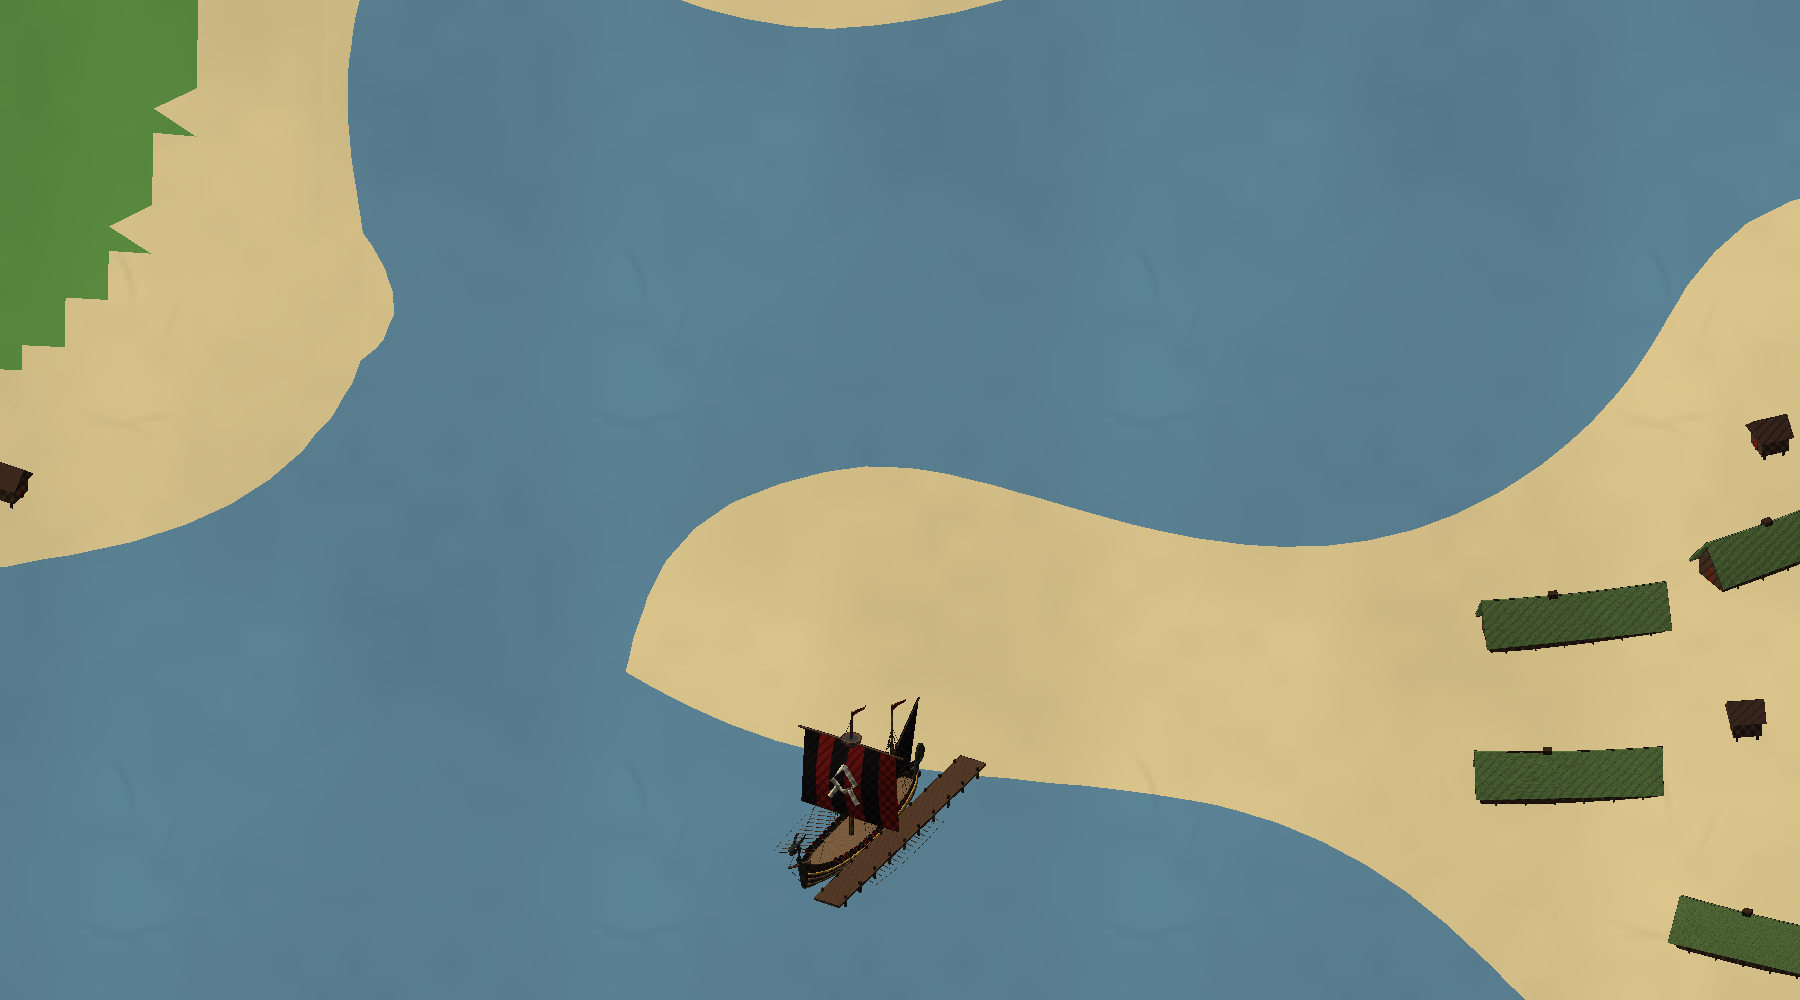
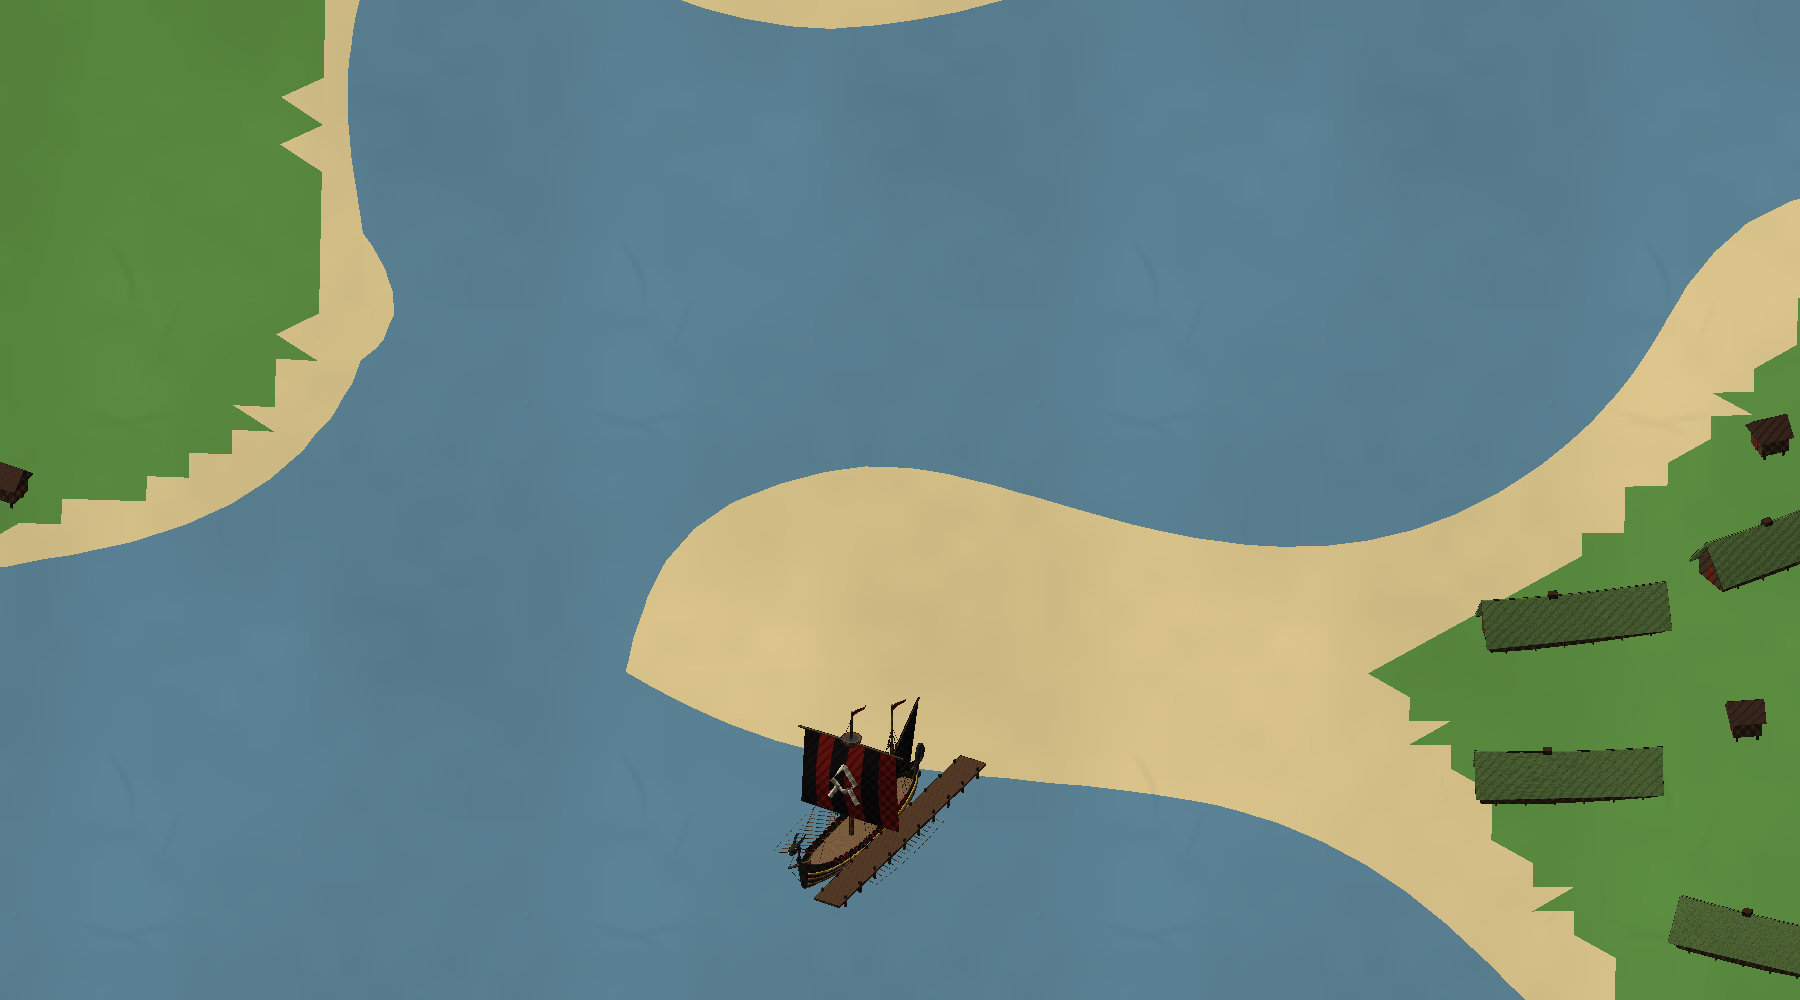
World at eye level: first-person harbour view, near-plane clipping, green lowland
- Preview: the Kaupang scene also rendered from the jetty at eye height
  (docs/scene-kaupang-fp.png); triangles crossing the near plane are clipped
  rather than dropped, so the ground and sea close to you are drawn.
- Terrain: sand only right at the waterline; low farmland is grass.

Claude-Session: https://claude.ai/code/session_01SCdejJ1UF8RUxAkkFhZXGU

Changed region(s): [[0.7467, 0.31, 1.0, 1.0], [0.0, 0.0, 0.1867, 0.527]]

diff --git a/tools/preview/HeroPreview.cs b/tools/preview/HeroPreview.cs
@@ -508,7 +508,31 @@ public static class HeroPreview
         var pose = new Pose();
         pose.pos[J] = new Vector3(0f, 0f, 0f);
         Render(img, w, h, 0, w, h, new Shot { model = m, pose = pose, yaw = jetty.yaw + 150f, zoom = 0.018f, pitch = 34f });
-        using (var fs = new BinaryWriter(File.Create(rgbaPath)))
+        WriteRgba(rgbaPath, img, w, h);
+
+        // And as you'd see it in first person: standing at the shore end of the jetty, looking at the town.
+        var town = Vector3.zero;
+        for (int i = 1; i < plots.Count; i++) town += plots[i].at;
+        if (plots.Count > 1) town /= plots.Count - 1;
+        var eye = jetty.at - centre + new Vector3(0f, 2.3f, 0f);
+        var toTown = town - jetty.at;
+        float gaze = Mathf.Atan2(toTown.x, toTown.z) * Mathf.Rad2Deg - 25f;
+        var fp = new float[w * h * 3];
+        for (int y = 0; y < h; y++)
+            for (int x = 0; x < w; x++)
+            {
+                // A pale northern sky, brighter towards the horizon.
+                float k = y / (float)h;
+                int i = (y * w + x) * 3;
+                fp[i] = Mathf.Lerp(0.62f, 0.9f, k); fp[i + 1] = Mathf.Lerp(0.74f, 0.9f, k); fp[i + 2] = Mathf.Lerp(0.86f, 0.88f, k);
+            }
+        Render(fp, w, h, 0, w, h, new Shot { model = m, pose = pose, perspective = true, eye = eye, yaw = gaze, pitch = 3f, fov = 70f });
+        WriteRgba(rgbaPath + ".fp", fp, w, h);
+    }
+
+    static void WriteRgba(string path, float[] img, int w, int h)
+    {
+        using (var fs = new BinaryWriter(File.Create(path)))
         {
             fs.Write(w); fs.Write(h);
             for (int i = 0; i < w * h; i++)
@@ -863,14 +887,14 @@ public static class HeroPreview
                 normal[a] += fn; normal[b] += fn; normal[c] += fn;
             }
             var screen = new Vector3[n];
+            var camSpace = shot.perspective ? new Vector3[n] : null;
             for (int i = 0; i < n; i++)
             {
                 normal[i] = normal[i].normalized;
                 if (shot.perspective)
                 {
-                    Vector3 pp = inv * (world[i] - shot.eye);
-                    float zz = Mathf.Max(pp.z, 1e-4f);
-                    screen[i] = new Vector3(cx + pp.x / zz * focal, cellH / 2f - pp.y / zz * focal, pp.z);
+                    camSpace[i] = inv * (world[i] - shot.eye);
+                    screen[i] = Project(camSpace[i], cx, cellH, focal);
                     continue;
                 }
                 Vector3 cp = inv * (world[i] - new Vector3(0f, 0.9f, 0f));
@@ -882,14 +906,50 @@ public static class HeroPreview
                 Vector3 fn = Vector3.Cross(world[b] - world[a], world[c] - world[a]);
                 if (shot.perspective)
                 {
-                    // Behind the near plane: not drawn. Facing away from the eye: culled.
-                    if (screen[a].z < 0.05f || screen[b].z < 0.05f || screen[c].z < 0.05f) continue;
+                    // Facing away from the eye: culled. Crossing the near plane: clipped to the part in front of it.
                     if (Vector3.Dot(fn, world[a] - shot.eye) >= 0f) continue;
+                    if (screen[a].z < Near || screen[b].z < Near || screen[c].z < Near)
+                    {
+                        var poly = ClipNear(new[] { a, b, c }, camSpace, normal, mesh.Uvs);
+                        for (int k = 1; k + 1 < poly.Count; k++)
+                            Tri(img, depth, w, x0, cellW, cellH, Project(poly[0].p, cx, cellH, focal), Project(poly[k].p, cx, cellH, focal), Project(poly[k + 1].p, cx, cellH, focal),
+                                poly[0].n, poly[k].n, poly[k + 1].n, poly[0].uv, poly[k].uv, poly[k + 1].uv, tex, InkStyle.HatchAmount(piece.surface), InkStyle.Flatness(piece.surface), piece.color, piece.ink, light, forward);
+                        continue;
+                    }
                 }
                 else if (Vector3.Dot(fn, forward) >= 0f) continue; // back face, culled like Unity
                 Tri(img, depth, w, x0, cellW, cellH, screen[a], screen[b], screen[c], normal[a], normal[b], normal[c], mesh.Uvs[a], mesh.Uvs[b], mesh.Uvs[c], tex, InkStyle.HatchAmount(piece.surface), InkStyle.Flatness(piece.surface), piece.color, piece.ink, light, forward);
             }
         }
+    }
+
+    /// <summary>The perspective camera's near plane (m in front of the eye).</summary>
+    const float Near = 0.05f;
+
+    static Vector3 Project(Vector3 p, float cx, int cellH, float focal)
+    {
+        float z = Mathf.Max(p.z, 1e-4f);
+        return new Vector3(cx + p.x / z * focal, cellH / 2f - p.y / z * focal, p.z);
+    }
+
+    struct ClipVert { public Vector3 p, n; public Vector2 uv; }
+
+    /// <summary>A triangle cut down to the part in front of the near plane (0 to 4 corners, in camera space).</summary>
+    static List<ClipVert> ClipNear(int[] tri, Vector3[] cam, Vector3[] normal, List<Vector2> uvs)
+    {
+        var outList = new List<ClipVert>();
+        for (int i = 0; i < 3; i++)
+        {
+            int a = tri[i], b = tri[(i + 1) % 3];
+            bool ina = cam[a].z >= Near, inb = cam[b].z >= Near;
+            if (ina) outList.Add(new ClipVert { p = cam[a], n = normal[a], uv = uvs[a] });
+            if (ina != inb)
+            {
+                float t = (Near - cam[a].z) / (cam[b].z - cam[a].z);
+                outList.Add(new ClipVert { p = Vector3.Lerp(cam[a], cam[b], t), n = Vector3.Lerp(normal[a], normal[b], t).normalized, uv = Vector2.Lerp(uvs[a], uvs[b], t) });
+            }
+        }
+        return outList;
     }
 
     static void Tri(float[] img, float[] depth, int w, int x0, int cellW, int cellH, Vector3 a, Vector3 b, Vector3 c,

diff --git a/tools/tests/LogicTests.cs b/tools/tests/LogicTests.cs
@@ -359,7 +359,7 @@ public static class LogicTests
             worst = Math.Max(worst, Math.Abs(TerrainDetail.Height(map, px, pz) - map.GroundHeight((float)px, (float)pz)));
         }
         Check(worst < 80f, "made-up detail stays within tens of metres of the real land (" + worst + ")");
-        Check(TerrainDetail.Kind(2000f, 0.1f) == Ground.Snow && TerrainDetail.Kind(-10f, 0f) == Ground.Seabed && TerrainDetail.Kind(1f, 0.1f) == Ground.Sand && TerrainDetail.Kind(200f, 1.5f) == Ground.Rock,
+        Check(TerrainDetail.Kind(2000f, 0.1f) == Ground.Snow && TerrainDetail.Kind(-10f, 0f) == Ground.Seabed && TerrainDetail.Kind(0.3f, 0.1f) == Ground.Sand && TerrainDetail.Kind(2f, 0.1f) == Ground.Grass && TerrainDetail.Kind(200f, 1.5f) == Ground.Rock,
             "peaks are snow, the sea floor seabed, beaches sand and cliffs rock");
 
         // The floating origin: shifting keeps global positions and brings the player home.

diff --git a/OdinsCoin/Assets/Scripts/World/TerrainDetail.cs b/OdinsCoin/Assets/Scripts/World/TerrainDetail.cs
@@ -39,7 +39,8 @@ namespace OdinsCoin
         {
             if (realHeight < -0.5f) return Ground.Seabed;
             if (realHeight > 1500f || (realHeight > 1100f && slope < 0.5f)) return Ground.Snow;
-            if (realHeight < 2.5f && slope < 0.35f) return Ground.Sand;
+            // Only a strip of beach at the waterline: the low farmland of the south is green, not a desert.
+            if (realHeight < 0.5f && slope < 0.35f) return Ground.Sand;
             if (slope > 0.7f || realHeight > 850f) return Ground.Rock;
             return Ground.Grass;
         }

diff --git a/OdinsCoin/WORLD.md b/OdinsCoin/WORLD.md
@@ -186,6 +186,10 @@ med ror, seil i vinden og årer.
   (inne i en fjord eller bak en øy) ligger sjøen mye roligere. Stormen kommer på toppen. Bølgehøyden styrer også
   hvor mye vann som skylles inn over ripa.
 
+- [x] **20. Verden i øyehøyde (se [docs/scene-kaupang-fp.png](docs/scene-kaupang-fp.png)):** siden spillet nå spilles i førsteperson, viser forhåndsvisningen også havna slik du ser den når du står på brygga.
+  - Lavt land er gress. Sand er det bare nærmest vannkanten, der det før var sand opp til 2,5 m over havet.
+  - [ ] Mer liv på bakken rundt deg: trær, steiner, gresstuer, gjerder, åkrer og folk i byene, så verden ikke er tom når du går rundt i den.
+
 ## Merk
 
 - I full størrelse tar det lang tid å seile: Bergen til Trondheim er rundt 500 km, altså rundt 10 til 15
